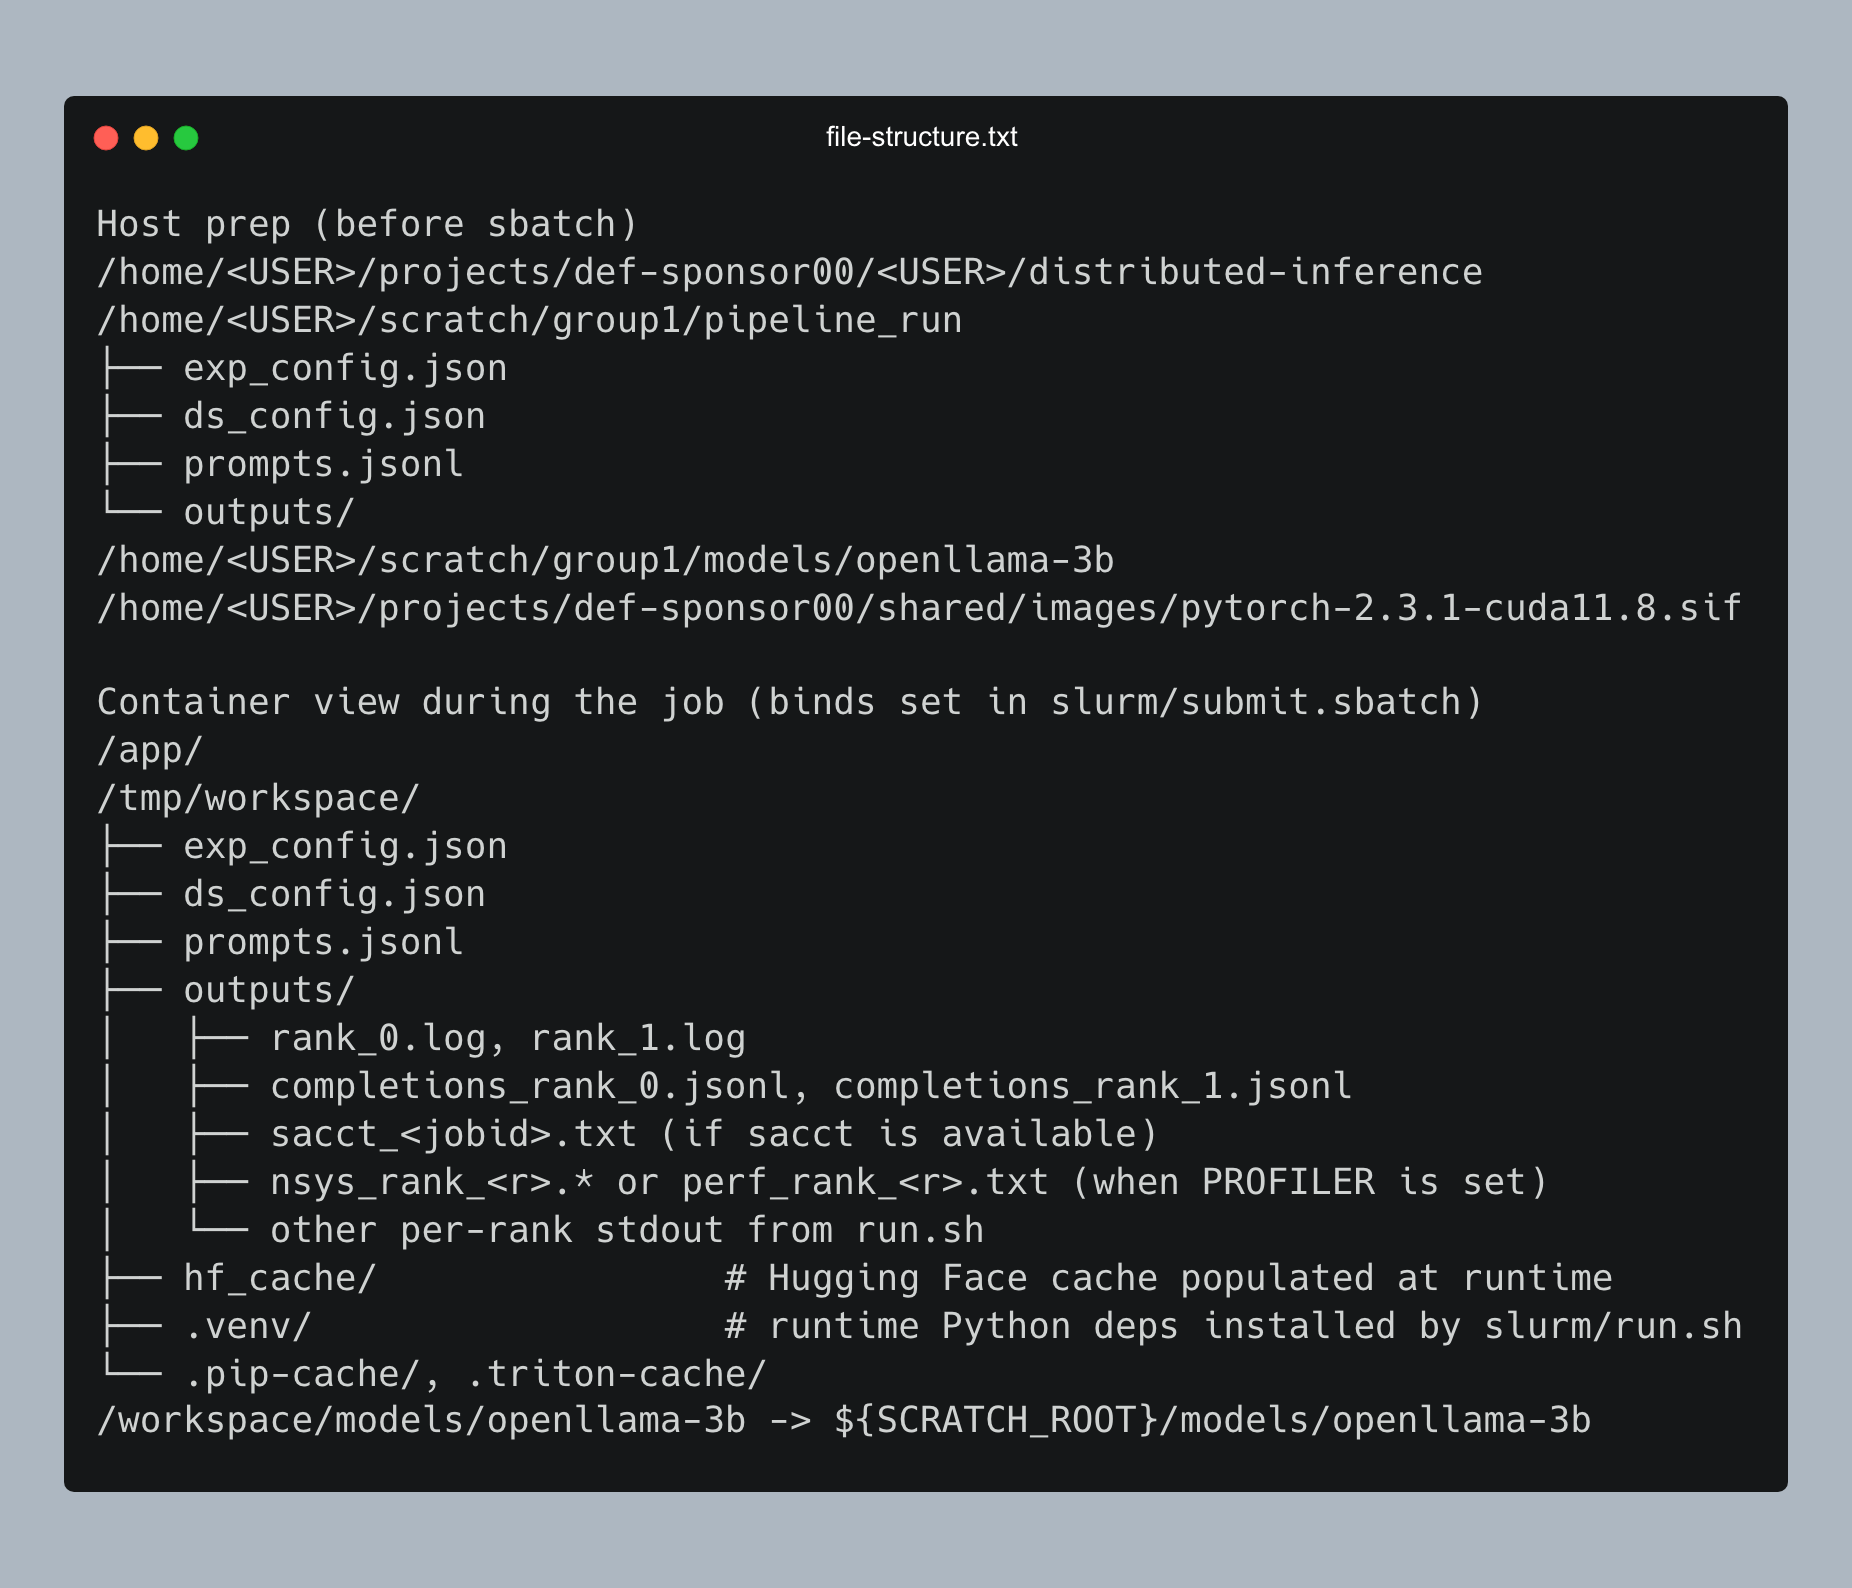
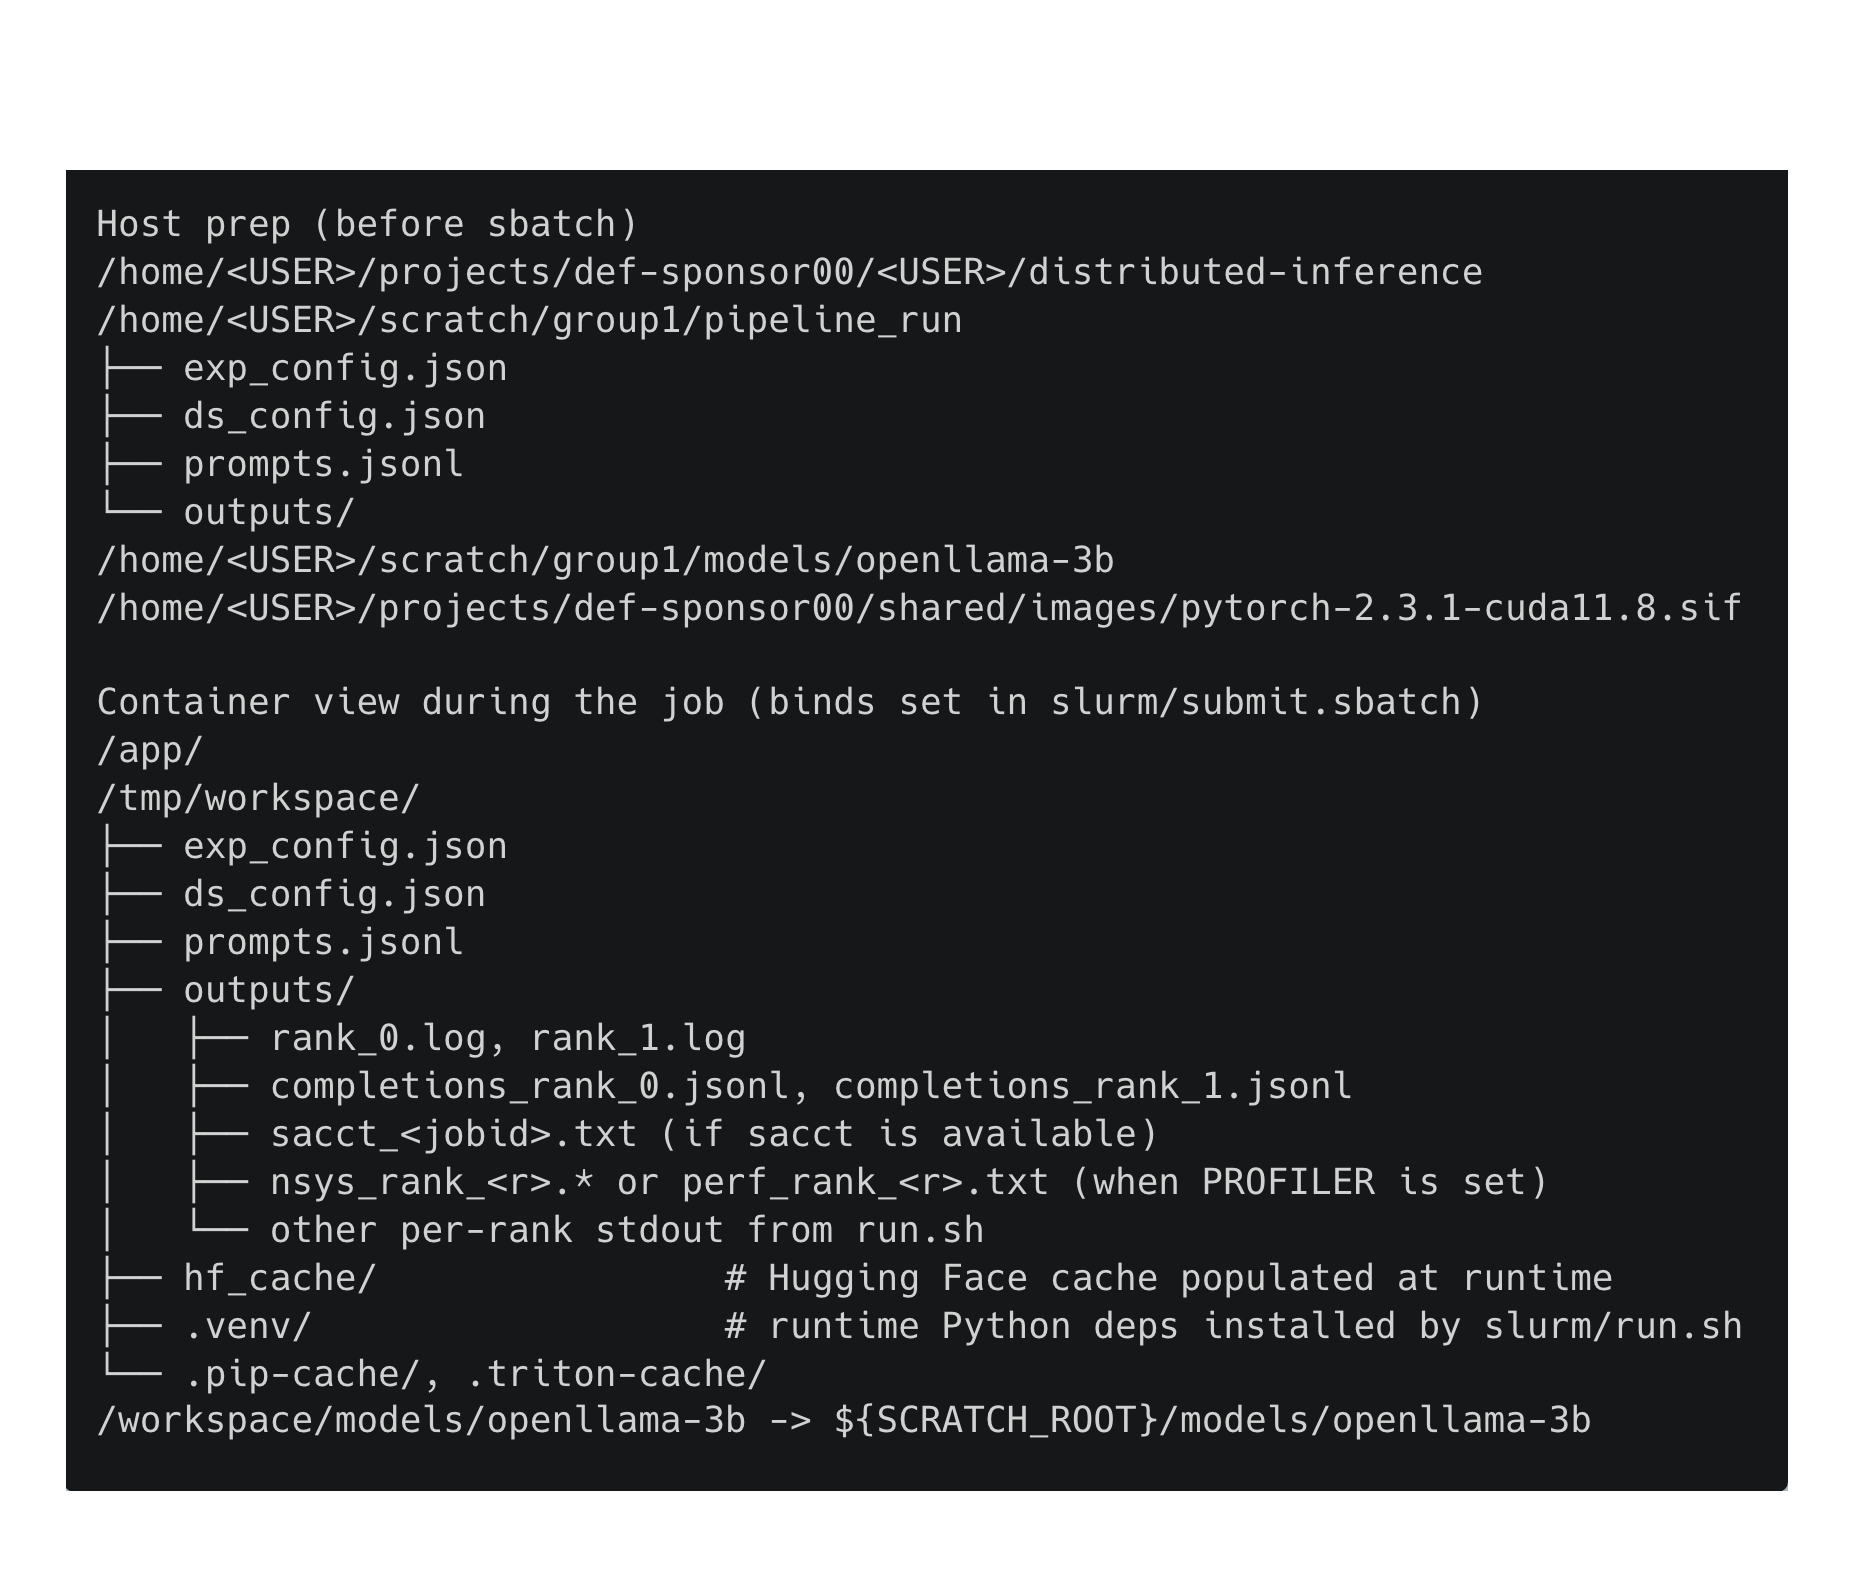
Updated png + readme

Changed region(s): [[0.0, 0.0, 1.0, 1.0]]

diff --git a/README.md b/README.md
@@ -194,35 +194,7 @@ rsync -avz --progress \
 
 ## Cluster File Structure
 
-```
-Host prep (before sbatch)
-/home/<USER>/projects/def-sponsor00/<USER>/distributed-inference   # CODE_ROOT synced from laptop (slurm/, src/run_distributed_inference.py)
-/home/<USER>/scratch/group1/pipeline_run                          # SCRATCH_ROOT/PROJECT_ROOT/PIPELINE_ROOT (shared runtime data)
-├── exp_config.json                                               # copied from CODE_ROOT/slurm at submit time
-├── ds_config.json                                                # copied from CODE_ROOT/slurm at submit time
-├── prompts.jsonl                                                 # copied from CODE_ROOT/slurm at submit time
-└── outputs/                                                      # initially empty; Slurm stdout/err go to ${SCRATCH_ROOT}/hpc-runs
-/home/<USER>/scratch/group1/models/openllama-3b                   # model snapshot reused by all nodes
-/home/<USER>/projects/def-sponsor00/shared/images/pytorch-2.3.1-cuda11.8.sif  # APPAINTER_IMAGE (or ${SCRATCH_ROOT}/appainter/appainter.sif)
-
-Container view during the job (binds set in slurm/submit.sbatch)
-/app/                        -> ${CODE_ROOT} (src/run_distributed_inference.py, slurm/run.sh)
-/tmp/workspace/              -> ${SCRATCH_ROOT}/pipeline_run
-├── exp_config.json
-├── ds_config.json
-├── prompts.jsonl
-├── outputs/
-│   ├── rank_0.log, rank_1.log
-│   ├── completions_rank_0.jsonl, completions_rank_1.jsonl
-│   ├── sacct_<jobid>.txt (if sacct is available)
-│   ├── nsys_rank_<r>.* or perf_rank_<r>.txt (when PROFILER is set)
-│   └── other per-rank stdout from run.sh
-├── hf_cache/                # Hugging Face cache populated at runtime
-├── .venv/                   # runtime Python deps installed by slurm/run.sh
-├── .pip-cache/, .triton-cache/
-└── (any ad-hoc configs you add under ${PIPELINE_ROOT})
-/workspace/models/openllama-3b -> ${SCRATCH_ROOT}/models/openllama-3b
-```
+![Cluster File Structure](docs/file-structure.png)
 
 
 ## Resources
